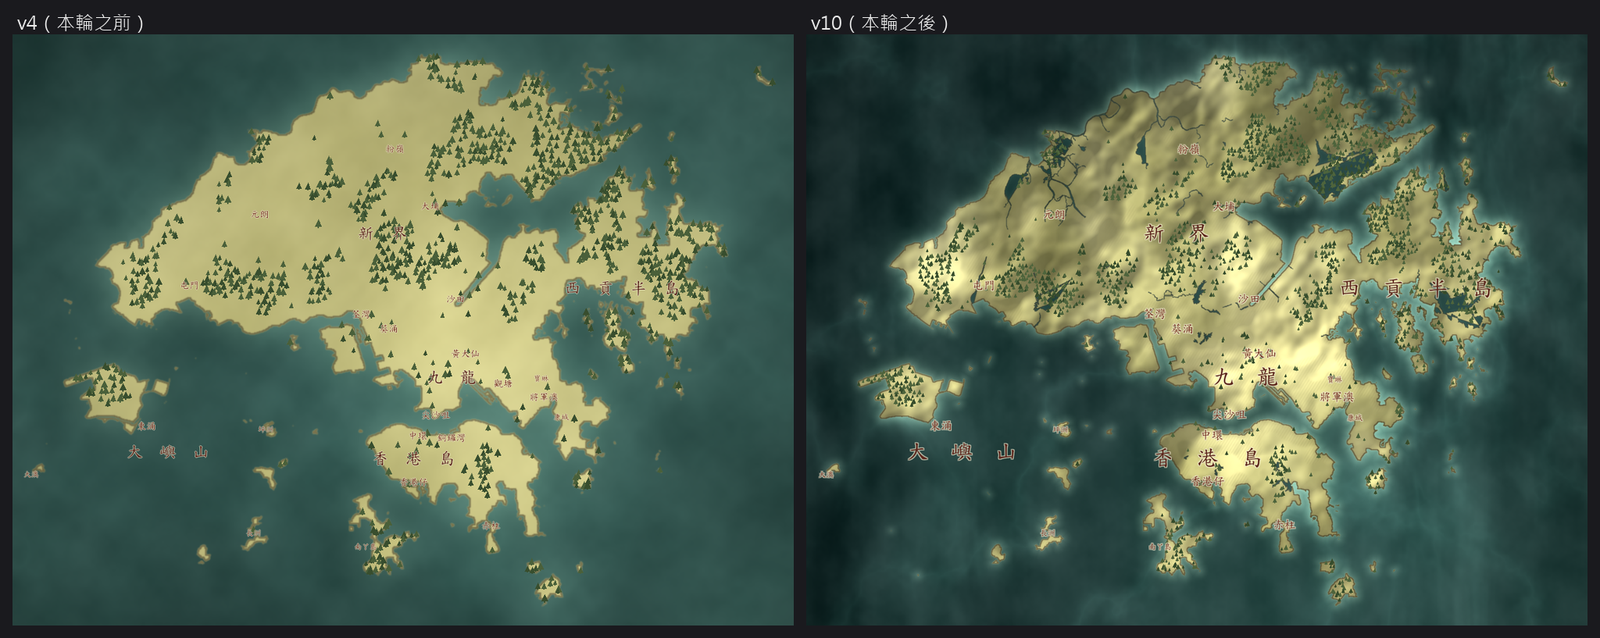
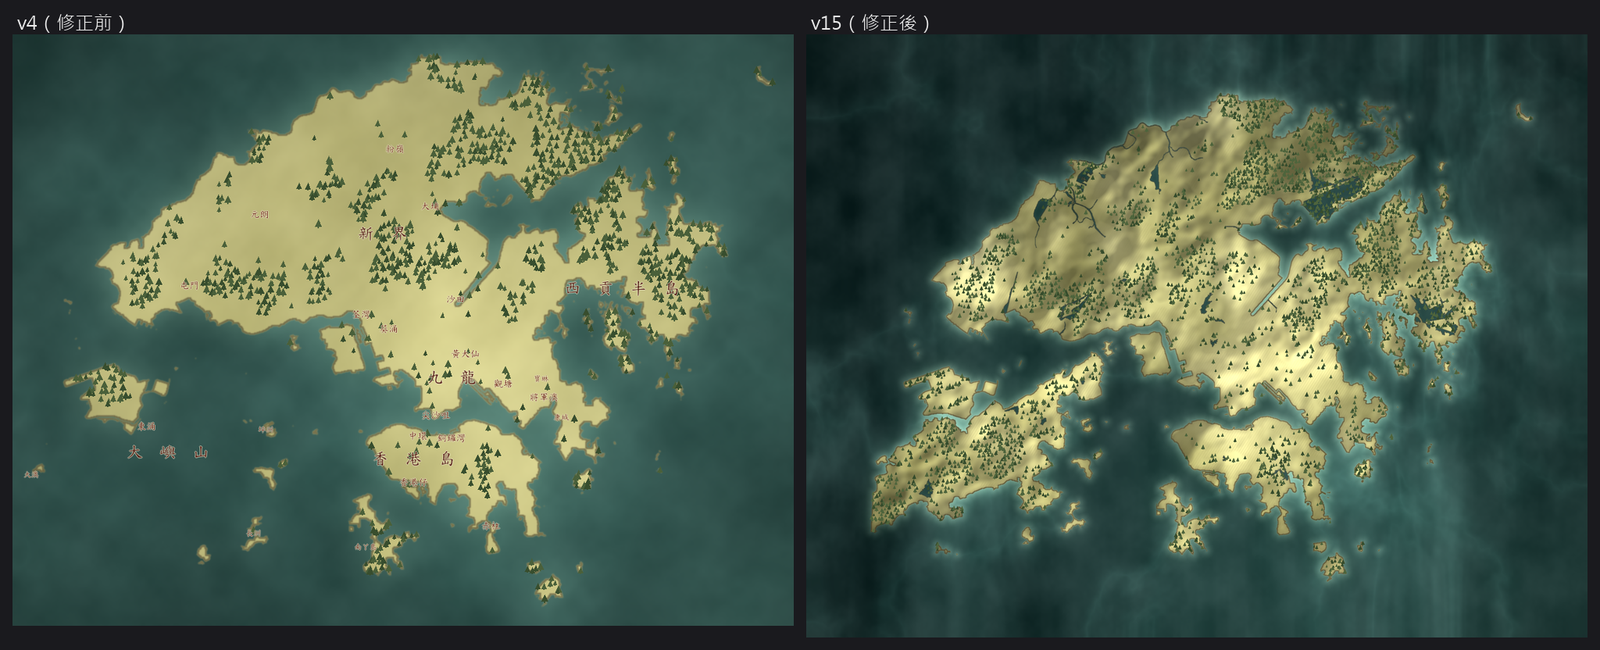
docs: Phase J 報告補記第三輪（輪廓修正／投影對齊／LOD）+ 對照圖
- §9 記錄三個嚴重缺陷嘅根因、量化同修正（含「加粗屏障係假修復」陷阱）
- §8 改為記錄用戶已回覆嘅四項決定
- 資產：前後對比圖更新、新增 LOD 四級對照圖、v15 底圖

diff --git a/docs/progress/phase-j-map-art-direction-and-content-audit.md b/docs/progress/phase-j-map-art-direction-and-content-audit.md
@@ -333,10 +333,158 @@ SceneRef（場景引用，一章一筆）
 
 ---
 
-## 8. 待用戶決定
+## 8. 用戶決定（2026-09-15 已回覆）
 
-1. **美術方向**：原型是否對題？要唔要更貼近參考圖 1（方形、褐色調）
-   定參考圖 2（偏黃、將軍澳細節）？
-2. **地圖範圍**：全港總覽，抑或將軍澳細節圖（同 `map-config.json` 一致）？
-3. **虛構地點處理**：§1.3 嘅 A / B / C 邊個方案？
-4. **推斷流程**：是否授權我做內容推斷（會產生需人手審閱嘅候選清單）？
+1. **美術方向** → 要更多細節，並指出「大嶼山係必然錯誤」。→ 已處理，見 §9。
+2. **地圖範圍** → 「如我喺上述所講」：要**可縮放**，可放大到某地區或
+   倖存區，放大後顯示更多細節、分區、建築。→ 已實作 LOD，見 §9.4。
+3. **虛構地點處理** → **選 C**：推斷真實原型，**並且必須喺正確嘅位置及座標**。
+4. **推斷流程** → **授權**，而且「應該應用喺所有其它地方。呢啲概念你亦都
+   應該好好運用」。→ 即推斷概念唔限於地點，亦要套用到角色、事件、路線、
+   時間線；Place/SceneRef 兩層模型要貫徹整個資料管線。
+
+第 3、4 項未開始，見 §9.8。
+
+---
+
+## 9. 第三輪：輪廓修正 + 投影對齊 + 多層級縮放
+
+用戶回應四個問題：**(1)** 要更多細節，並指出「大嶼山係必然錯誤」，
+另要支援縮放、放大到某地區／倖存區後顯示更多細節／分區／建築；
+**(3)** 選方案 C（推斷真實原型，必須喺正確位置及座標）；
+**(4)** 授權推斷，並要求套用到所有其它地方。
+
+本輪處理 (1)。追查後發現**三個嚴重缺陷**，全部已修並加回歸測試。
+
+### 9.1 大嶼山陸地消失（輪廓錯誤）— CRITICAL
+
+**量化**：大嶼山 bbox 陸地比例只有 **3.1%**（應該約 60%）。
+
+**根因**：海岸線斷成 **876 個連通分量**。用節點圖分析，大嶼山主體
+（分量 8,514 節點）只有 2 個自由端（degree-1），西岸缺口
+**3,504 m**（113.8476,22.1968 ↔ 113.8498,22.2308）。海水由缺口灌入島內。
+
+**一個必須記錄嘅陷阱 —— 「加粗屏障」係假修復**：
+
+| 屏障寬度 | 大嶼山陸地 | 全港陸地 px | 判讀 |
+|---|---|---|---|
+| 2 px | 3.1% | 184,727 | 海水灌入大嶼山 |
+| 6 px | **78.1%** | **475,330** | **睇落修好，其實係災難** |
+
+6 px 令大嶼山「恢復」，但真正發生嘅係維港入口被加粗嘅線封死，海水
+被困死喺細範圍，於是全港陸地暴漲 **2.6 倍**。呢個修法唔單止錯，仲會
+製造出更難察覺嘅錯誤（陸地比例 60% 睇落「似」合理）。
+
+**正解**：由拓樸層面補線。搵出所有 degree-1 節點（自由端），按距離
+貪心配對（每個端只用一次，超過 6 km 唔配），畫直線補上。結果：
+**8 個自由端、補 3 條線**（248 m / 470 m / 3,762 m）。
+
+| 區域 | 修正前 | 修正後 | 實際參考 |
+|---|---|---|---|
+| 大嶼山 | 3.1% | **50.3%** | ~55–60% |
+| 香港島 | 53.4% | 53.4% | ~58% |
+| 九龍 | 81.7% | 81.7% | 高 |
+| 全港陸地 | 22.8% | **26.3%** | 27.8% |
+
+沙田一帶有條幼線，追查後係 **way 750031066**（城門河／沙田海水道），
+OSM 真實標為 `natural=coastline` —— 係正確地理，唔係 bug。
+
+### 9.2 底圖相對標記被垂直拉伸 1.622 倍 — CRITICAL
+
+**呢個係「標記唔喺真實位置」嘅第二個主因**（第一個係 §1 嘅虛構座標）。
+
+舊底圖係 **2048×2048 正方形**，但覆蓋 0.6°×0.37°（長寬比 1.622）。
+SVG 用 `preserveAspectRatio="xMidYMid slice"` 放入 0.6×0.37 嘅框：
+slice 會等比放大到覆蓋，再垂直裁走 38%。
+
+即係底圖覆蓋嘅 0.37° 緯度被拉長到 0.6 user unit，而標記用嘅
+`lonlatToViewbox` 係線性 0.37 → 0.37。兩者以中心為軸相差 **1.622 倍**：
+
+| 緯度 | 底圖畫喺 | 標記用嘅 y | 偏差 |
+|---|---|---|---|
+| 22.55（北） | 22.065 | 22.180 | 0.115° ≈ **12.8 km** |
+| 22.365（中） | 22.365 | 22.365 | 0 |
+| 22.18（南） | 22.665 | 22.550 | 0.115° ≈ **12.8 km** |
+
+**修正**：
+1. 畫布高度 = 緯度跨度 × (闊度 / 經度跨度) ÷ cos(標準緯線) —— 即係
+   `render_binggang_map.py` 一直用嘅等距圓柱校正，現在底圖同前端一致。
+2. SVG 改用 `preserveAspectRatio="none"`，令圖磚精確貼合對應經緯矩形。
+3. `BASE_VIEW` 由底圖 bbox 推導（原本寫死 `{x:113.85, y:22.18, w:0.6, h:0.37}`），
+   垂直乘 1/cos(22.36°)。
+
+### 9.3 平移速度錯 1.24 倍 — MEDIUM
+
+`<svg>` 用 `preserveAspectRatio="xMidYMid meet"`，實際比例係
+`min(rectW / view.w, rectH / view.h)`（而且短邊留黑邊）。舊寫法寫
+`ux = view.w / rect.width`、`uy = view.h / rect.height`，假設兩軸獨立。
+當元素長寬比同 viewBox 長寬比唔同時（例如 900×695 嘅地圖面板 vs
+1.295 嘅 viewBox），拖曳同手指會唔同步。
+
+實測驗證：向右拖 200 px、向下拖 100 px，viewBox 位移
+`(-0.155556, -0.077778)` —— 同修正後嘅預期值**完全一致**。
+
+### 9.4 新增：多層級縮放（LOD）
+
+**核心設計**：輸出尺寸固定，改細 bbox = 放大。四層互相嵌套：
+
+| 層級 | 經度跨度 | 解析度 | 道路 | 建築 | 樓宇標籤 |
+|---|---|---|---|---|---|
+| overview | 0.70° | 47 m/px | — | — | — |
+| tko-region | 0.20° | 13 m/px | ✓ | — | — |
+| tko-district | 0.11° | 7 m/px | ✓ | ✓ | — |
+| tko-street | 0.06° | 4 m/px | ✓ | ✓ | ✓ |
+
+**關鍵洞察**：放大後嘅細節**唔需要新資料來源**。OSM cache 一直有
+**42,758 條道路**同 **133,361 幢建築**，只係全港尺度下一幢 20 m 建築
+只佔 0.36 px —— 畫出嚟只會變污點。喺分區尺度就變成 3 px，街道尺度
+8 px，自然呈現真實城市肌理。
+
+**前端**：`SvgMap.ts` 讀 `map-lod/manifest.json`，按目前視窗揀
+「**最窄但仍然完全覆蓋視窗**」嘅層級（完全覆蓋 = 保證冇空白），
+再把圖磚放入對應嘅 SVG user-unit 矩形。
+
+### 9.5 過程中發現嘅其他陷阱
+
+| # | 陷阱 | 後果 | 修正 |
+|---|---|---|---|
+| 1 | 手揀海域種子 | 吐露港／后海灣兩個「海點」其實落喺陸地，flood fill 由陸地蔓延，全港陸地由 26.3% **暴跌到 7.1%** | 由「唯一可信種子（維港）算出嘅全港海陸圖」提供驗證過嘅種子 |
+| 2 | LOD 視窗冇海岸線 | 將軍澳市中心 bbox 內**零條** coastline，flood fill 冇屏障，`land = 0.0%` | 改用連通分量多數表決：海岸線完整時高解析度，缺失時退化為全港圖粗邊界 |
+| 3 | 郊野判定用像素數 | 街道級時 `12.8 px` 只等於 **16 m**，整個將軍澳市中心長滿樹 | 改為固定地理距離 250 m |
+| 4 | `collect_polys` 用包圍盒面積 | 2,525 個斜向薄條水體「通過」過濾，但總面積只有 1,500 px（平均 0.6 px） | 改用鞋帶公式算實際面積 → 206 個 |
+| 5 | 標記半徑寫死 user unit | 街道級（view 寬 0.058°）時標記佔畫面 **27%**，完全蓋住地圖 | 按縮放反向補償 |
+| 6 | `map-config.json` 死配置 | `svg_basemap` 指向**唔存在**嘅 `assets/tseung-kwan-o-basemap.svg`；`base_layers[0].label` 寫「將軍澳」但實際係全港圖；`initial_view` 亦係將軍澳。前端從來冇讀取呢個區塊 | 改為真實內容 |
+
+### 9.6 產出
+
+| 檔案 | 說明 |
+|---|---|
+| `scripts/render_binggang_map.py` | 加 `--bbox` / `--lod` / `--labels` / `--wild-dist`；新增拓樸補線、多數表決、LOD 圖層 |
+| `scripts/build_map_lods.py` | 一次建置全部層級 + manifest |
+| `public/assets/hk-basemap.png` | 新底圖 2048×1582（等距圓柱校正） |
+| `public/assets/hk-basemap-labels.png` | 獨立透明標籤層（同底圖同 bbox，像素對齊） |
+| `public/assets/map-lod/` | 3 個細節層級 + manifest（約 5.2 MiB） |
+| `src/components/SvgMap.ts` | LOD 揀層／切換、投影修正、平移修正、標記補償 |
+| `tests/phase-j-lod.test.ts` | 15 項回歸測試（投影對齊、manifest 契約、平移換算、標記補償、端對端 LOD 切換） |
+
+### 9.7 閘門狀態
+
+| 閘門 | 狀態 |
+|---|---|
+| `npm run typecheck` | ✅ 0 errors |
+| `npm run lint` | ✅ 0 errors |
+| `vitest` | ✅ **54/54**（39 → 54） |
+| `pytest` | ✅ 127/127 |
+| `validate_public_data.py` | ✅ 全部通過 |
+| `audit_release.py --strict` | ✅ RELEASE AUDIT PASSED |
+
+端對端驗證（真實瀏覽器，拖到將軍澳再逐級放大）：
+`hk-basemap.png` → `tko-region.png` → `tko-district.png` → `tko-street.png`
+四級切換全部正確，標籤圖層喺細節層自動歸零。
+
+### 9.8 仍然未做
+
+1. **內容推斷（方案 C）** —— 用戶已授權，未開始。
+2. **推斷概念推廣至全專案**（角色／事件／路線／時間線）—— 未開始。
+3. **倖存區圖層** —— 需要 §1 嘅 Place/SceneRef 兩層模型先做。
+4. **其他區域嘅 LOD 圖磚** —— 現時只有將軍澳一帶；其餘區域會退回全港總覽。
